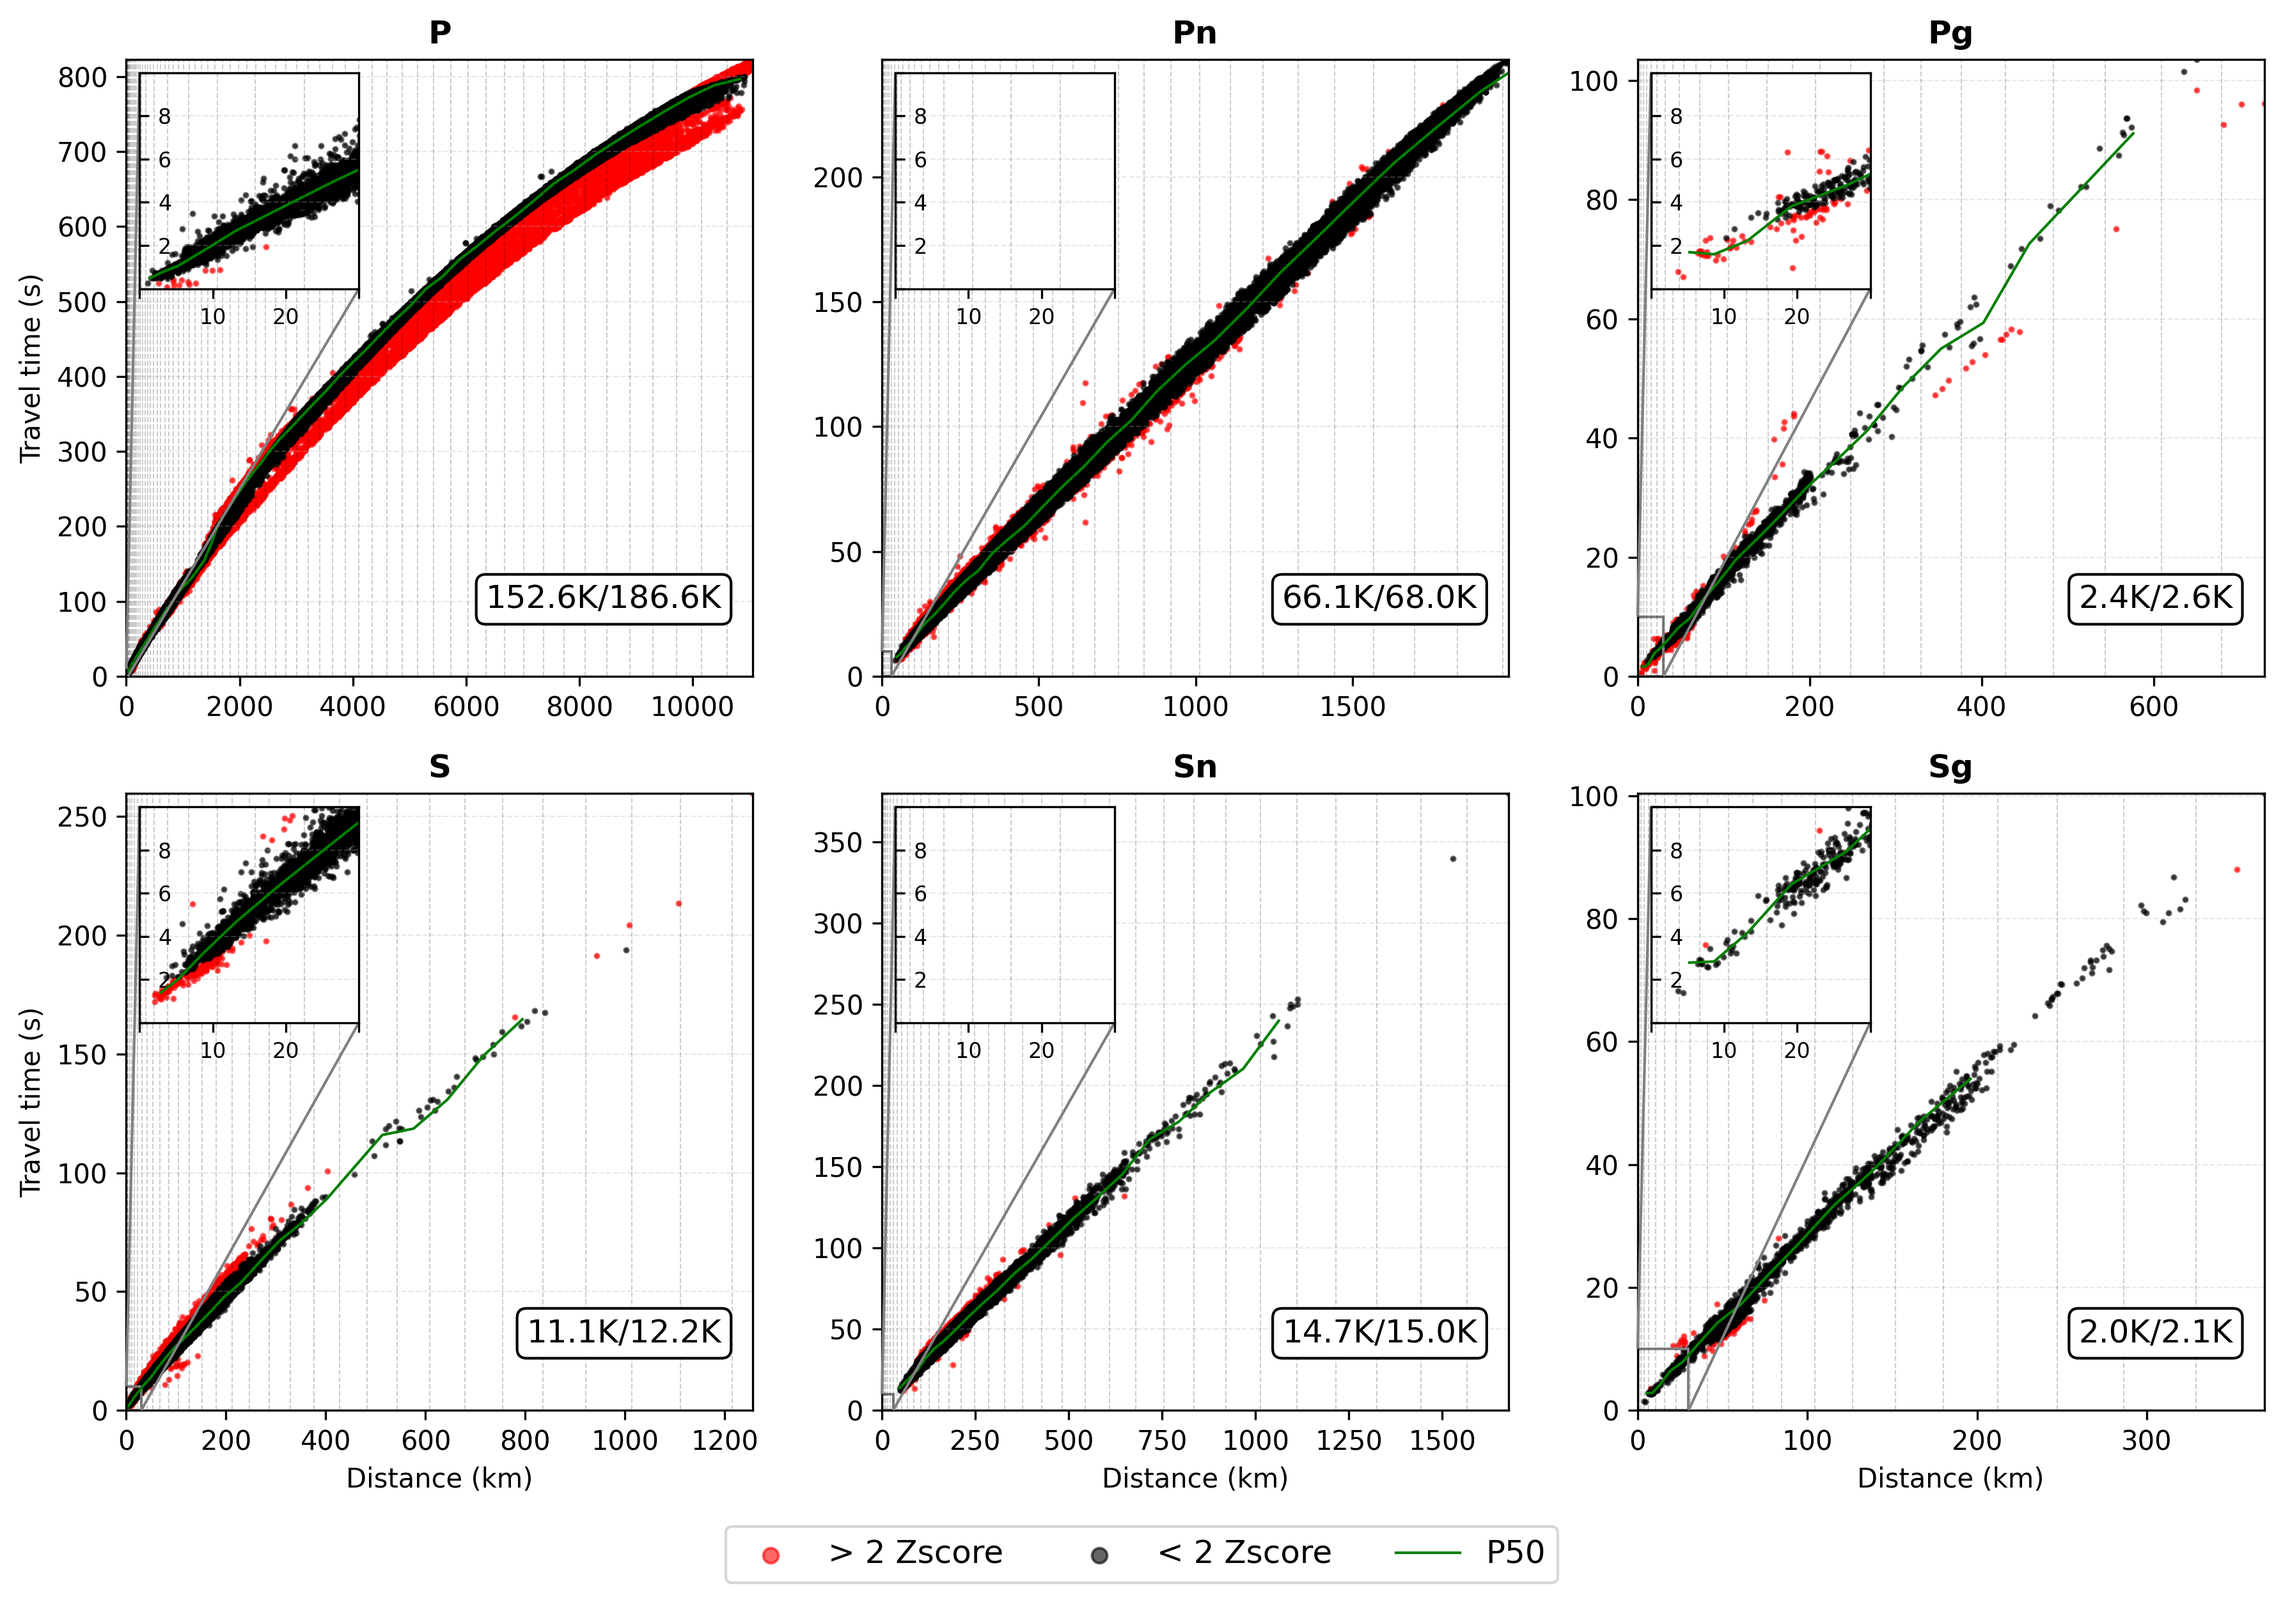
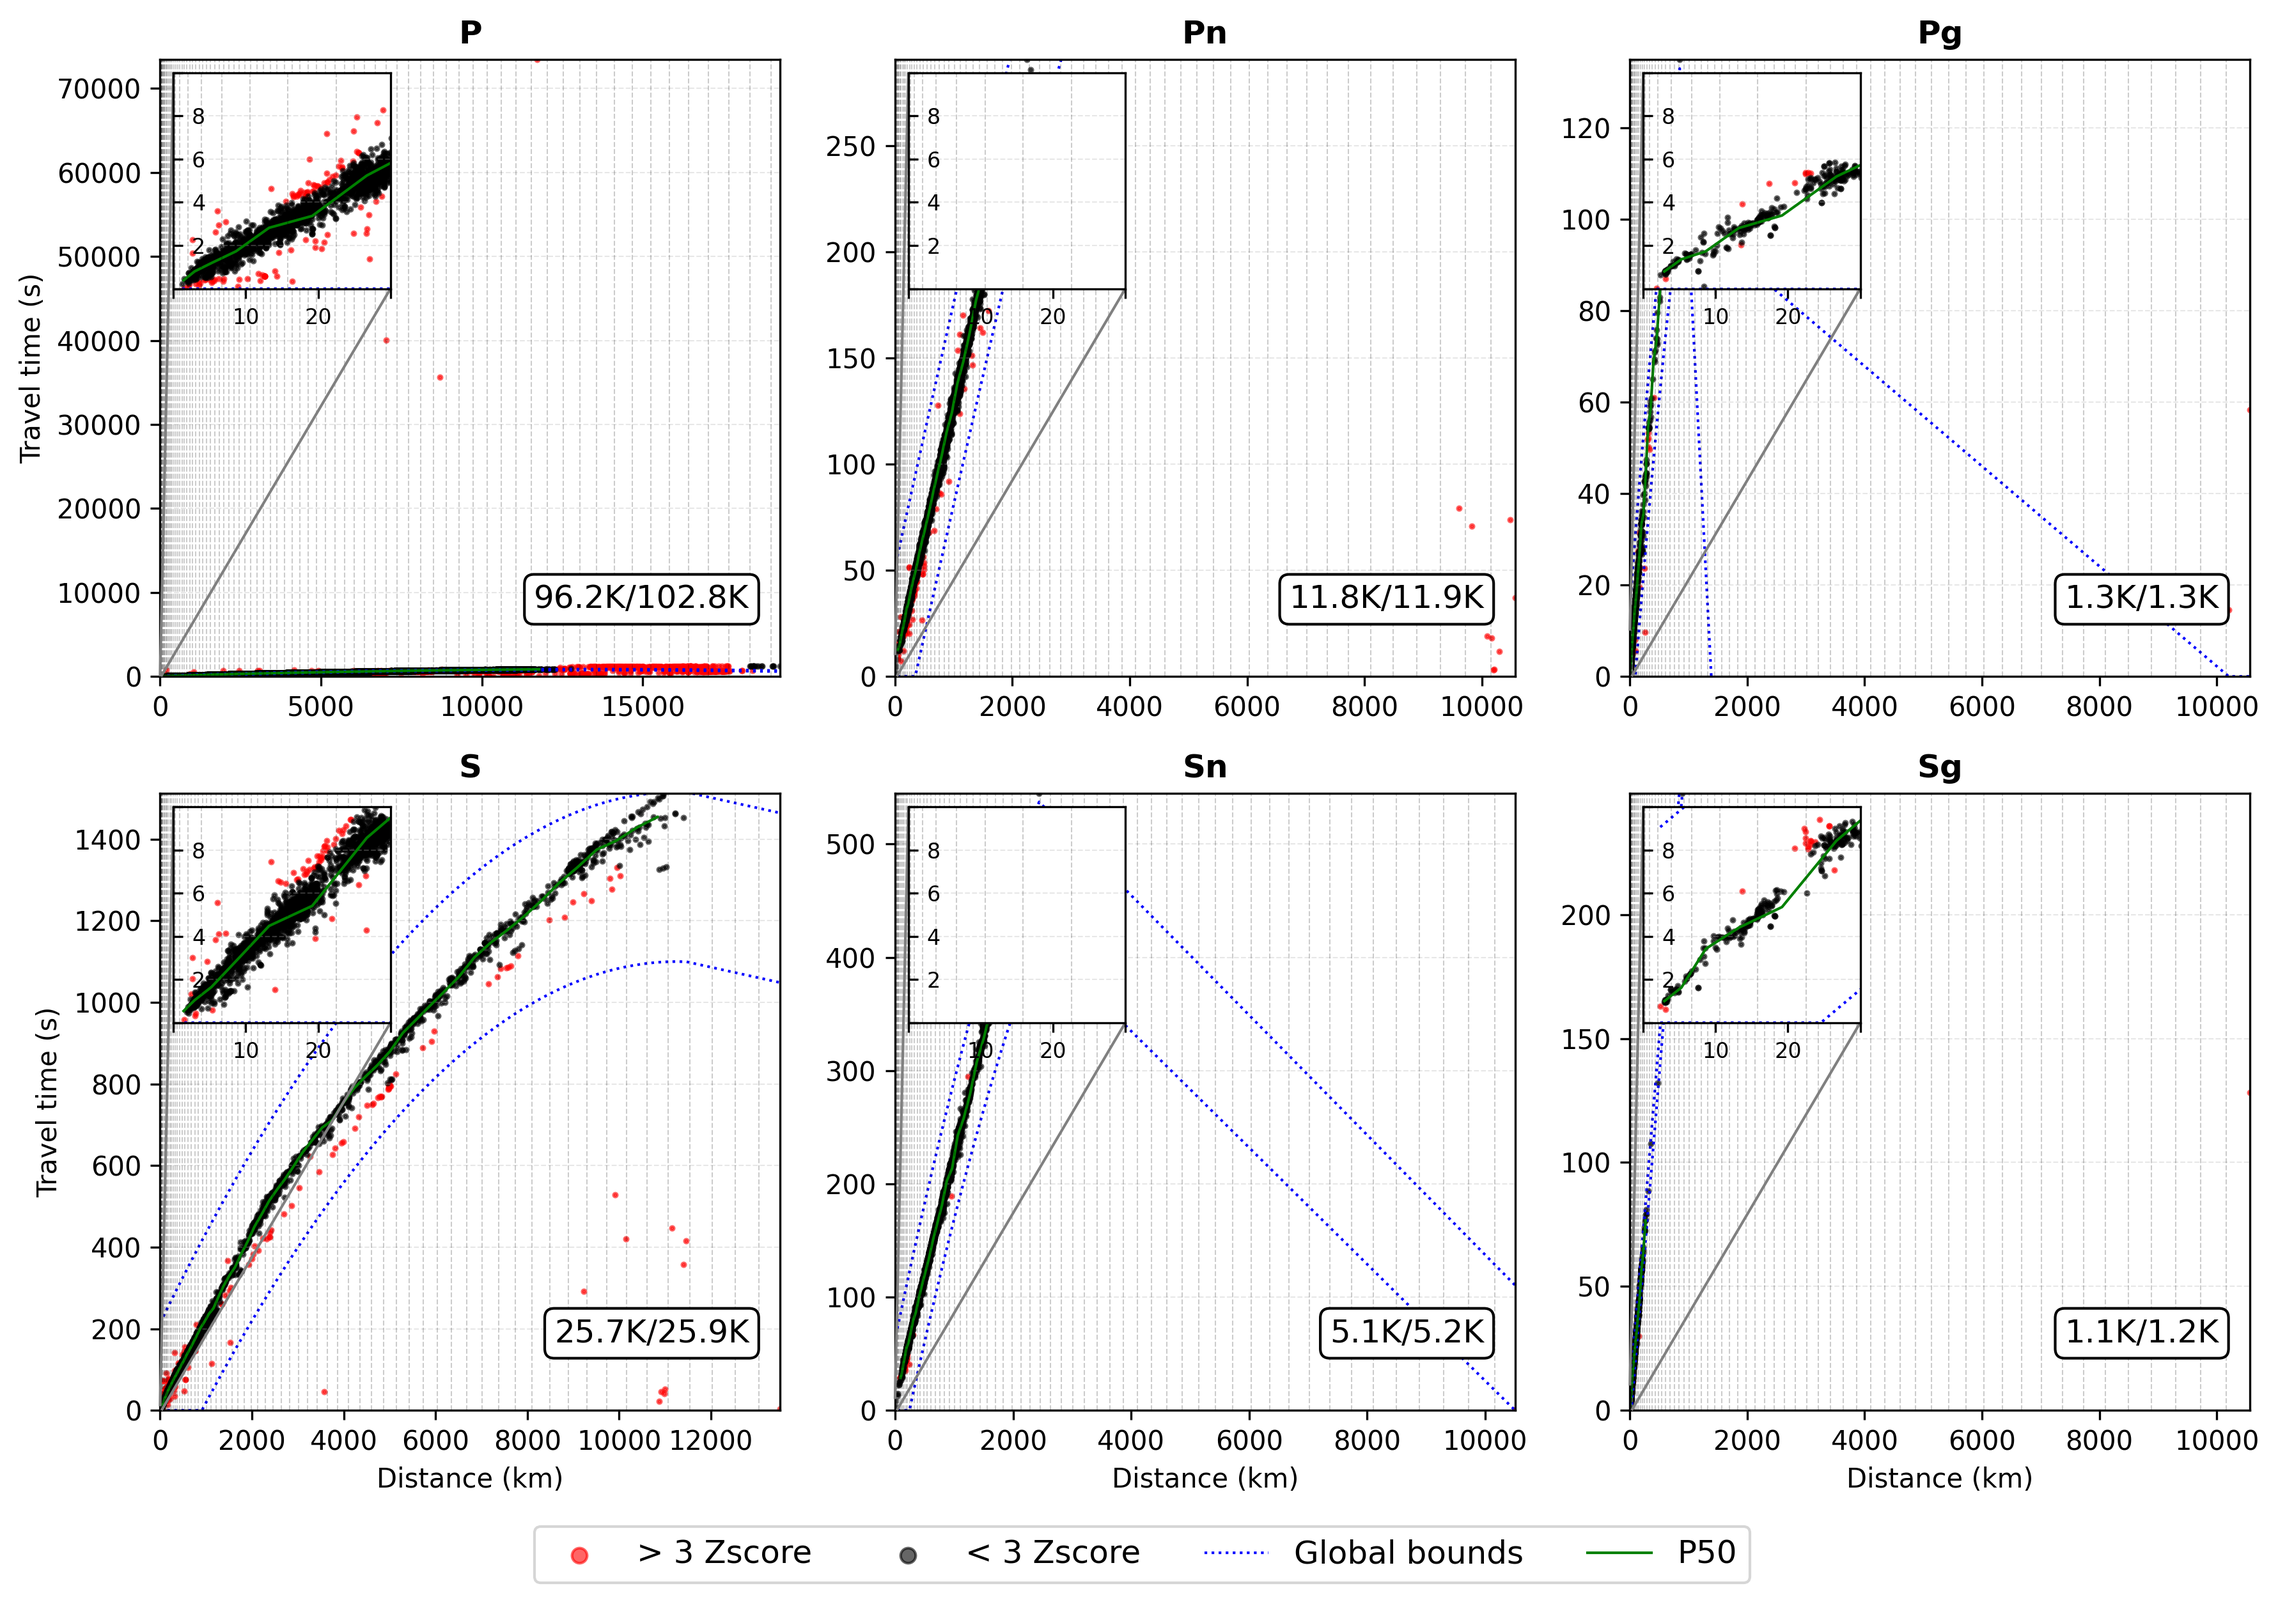
qc for picks

diff --git a/utdquake/qc/travel_time.py b/utdquake/qc/travel_time.py
@@ -84,6 +84,7 @@ class PhaseTravelTimeModel:
         percentile_cols = [col for col in self.model_df.columns if col.startswith("travel_time_p")]
         required_cols = ["travel_time_sigma"] + percentile_cols
         df_valid = self.model_df.dropna(subset=required_cols)
+        df_valid = df_valid.sort_values("distance_center").reset_index(drop=True)
 
         if len(df_valid) == 0:
             raise ValueError("No valid rows available to build interpolators.")
@@ -105,8 +106,15 @@ class PhaseTravelTimeModel:
             # fallback: just constant sigma
             self.std_func = lambda d: np.full_like(d, y_sigma[0] if len(y_sigma) > 0 else 0.0, dtype=float)
         else:
-            self.sigma_coeff = np.polyfit(x, y_sigma, deg_sigma)
-            self.std_func = np.poly1d(self.sigma_coeff)
+            # self.sigma_coeff = np.polyfit(x, y_sigma, deg_sigma)
+            # self.std_func = np.poly1d(self.sigma_coeff)
+            self.std_func = interp1d(
+                    x,
+                    y_sigma,
+                    kind="linear",           
+                    bounds_error=False,
+                    fill_value="extrapolate"
+                )
 
         # -------------------------
         # Percentiles
@@ -119,8 +127,15 @@ class PhaseTravelTimeModel:
                 # fallback: constant curve
                 self.p_funcs[col] = lambda d, val=y[0]: np.full_like(d, val, dtype=float)
             else:
-                coeff = np.polyfit(x, y, deg_col)
-                self.p_funcs[col] = np.poly1d(coeff)
+                # coeff = np.polyfit(x, y, deg_col)
+                # self.p_funcs[col] = np.poly1d(coeff)
+                self.p_funcs[col] = interp1d(
+                                        x,
+                                        y,
+                                        kind="linear",
+                                        bounds_error=False,
+                                        fill_value="extrapolate"
+                                    )
 
     def predict(self, distance: np.ndarray) -> pd.DataFrame:
         """
@@ -618,6 +633,7 @@ class PhaseTravelTime:
         pandas.DataFrame
         """
         df = self.df_full.copy()
+        df = df.sort_values(self.distance_col).reset_index(drop=True)
 
         valid_mask = (
             (~df[self.distance_col].isna()) &
@@ -630,6 +646,7 @@ class PhaseTravelTime:
 
         # Use model prediction (clean + consistent)
         preds = model.predict(x)
+        
 
         mu = preds["travel_time_p50"].values
         sigma = preds["travel_time_sigma"].values
@@ -638,6 +655,9 @@ class PhaseTravelTime:
         sigma = np.where(np.abs(sigma) < 1e-12, np.nan, np.abs(sigma))
 
         z = (y - mu) / sigma
+
+        # print(df[["phase","linear_hyp_distance","travel_time","travel_time_zscore"]].head())
+        # print(x[:5],y[:5], mu[:5], sigma[:5], z[:5])
 
         df.loc[valid_mask, "travel_time_zscore"] = abs(z)
 

diff --git a/utdquake/qc/config.py b/utdquake/qc/config.py
@@ -73,7 +73,7 @@ GLOBAL_TRENDS_DEFAULTS_DEG2 = {
             ],
             "sigma_median": 3.081852707836243,
             "sigma_max": 18.122289219478738,
-            "k": 10,
+            "k": 20,
             "x_min": 0,
             "x_max": 11062.643551617337
         },
@@ -86,7 +86,7 @@ GLOBAL_TRENDS_DEFAULTS_DEG2 = {
             ],
             "sigma_median": 2.3717707360038713,
             "sigma_max": 3.1788006095243153,
-            "k": 10,
+            "k": 20,
             "x_min": 0,
             "x_max": 1996.7077724459723
         },
@@ -99,7 +99,7 @@ GLOBAL_TRENDS_DEFAULTS_DEG2 = {
             ],
             "sigma_median": 0.7664360582262733,
             "sigma_max": 5.0462686049646654,
-            "k": 10,
+            "k": 20,
             "x_min": 0,
             "x_max": 728.2027580903004
         },
@@ -112,7 +112,7 @@ GLOBAL_TRENDS_DEFAULTS_DEG2 = {
             ],
             "sigma_median": 10.393477818397521,
             "sigma_max": 256.35044260025336,
-            "k": 10,
+            "k": 20,
             "x_min": 0,
             "x_max": 13506.250225497472
         },
@@ -125,7 +125,7 @@ GLOBAL_TRENDS_DEFAULTS_DEG2 = {
             ],
             "sigma_median": 3.053158871586068,
             "sigma_max": 6.134819445258061,
-            "k": 10,
+            "k": 20,
             "x_min": 0,
             "x_max": 10504.929615655545
         },
@@ -139,7 +139,7 @@ GLOBAL_TRENDS_DEFAULTS_DEG2 = {
             "phase": "Sg",
             "sigma_median": 0.3828498082403183,
             "sigma_max": 0.965278331528081,
-            "k": 3,
+            "k": 20,
             "x_min": 0,
             "x_max": 885.351256561625,
         }

diff --git a/scripts/qc/picks/qc_travel_time.py b/scripts/qc/picks/qc_travel_time.py
@@ -10,13 +10,14 @@ import concurrent.futures as cf
 
 fit = True
 plot = True
-max_workers = min(8, len(networks))  # adjust as needed
 base_input = "/groups/igonin/ecastillo/UTDQuake/picks"
+# results_folder = f"/groups/igonin/ecastillo/UTDQuake"
 results_folder = f"/groups/igonin/ecastillo/UTDQuake/manifests/qc"
 
 networks = os.listdir(base_input)
 # networks = ["TAP","tx","uw","ok","nn","RSNC","nc","us"]
-# networks = ["uw"]
+# networks = ["network=TAP.parquet"]
+max_workers = min(8, len(networks))  # adjust as needed
 
 print("Networks to process:", networks)
 
@@ -26,7 +27,7 @@ def process_network(network: str):
 
     data_input = os.path.join(base_input, network)
     data_output = os.path.join(results_folder, "picks", network)
-    model_path = os.path.join(results_folder, "qc_pick_models", network)
+    model_path = os.path.join(results_folder, "qc","pick_models", network)
 
     # Ensure directories exist
     os.makedirs(os.path.dirname(data_output), exist_ok=True)
@@ -47,10 +48,15 @@ def process_network(network: str):
             df_qc_z = multi_qc.attach_zscore()
             sanitized_df = sanitize_dataframe(df_qc_z, order_cols="picks")
 
+
+            sanitized_df.sort_values("linear_hyp_distance", inplace=True)
+            # print(sanitized_df[["phase","linear_hyp_distance",
+            # "travel_time","travel_time_zscore"]].head())
+
             sanitized_df.to_parquet(data_output, index=False)
             multi_qc.save_models_combined(model_path)
 
-        return f"✅ Done: {network}"
+            return f"✅ Done: {network}"
 
     except Exception as e:
         return f"❌ Error in {network}: {e}"

diff --git a/scripts/fig/test_new_figs.py b/scripts/fig/test_new_figs.py
@@ -6,15 +6,21 @@ from utdquake.utils.plot import plot_travel_time_qc
 
 import pandas as pd
 from utdquake.qc.travel_time import TravelTimeModel
-network = "us"
+network = "AUST"
+# path = "/groups/igonin/ecastillo/UTDQuake/manifests/test/picks/network=TAP.parquet"
 path = f"/groups/igonin/ecastillo/UTDQuake/picks/network={network}.parquet"
 df = pd.read_parquet(path)
+df.sort_values("linear_hyp_distance", inplace=True)
+print(df[["phase","linear_hyp_distance","travel_time","travel_time_zscore"]].head())
     
+# model_path = f"/groups/igonin/ecastillo/UTDQuake/manifests/test/qc/pick_models/network=TAP.parquet"
 model_path = f"/groups/igonin/ecastillo/UTDQuake/qc/pick_models/network={network}.parquet"
 load = TravelTimeModel.load(model_path)
 models = load.models
 fig_path = f"/groups/igonin/ecastillo/utdquake/scripts/fig/test_new_figs.png" 
-plot_travel_time_qc(df, models=models, zscore_threshold=2,
-            add_inset=True, savepath=fig_path)
+plot_travel_time_qc(df, models=models, zscore_threshold=3,
+            show_global_model=True,
+            add_inset=True, savepath=fig_path,
+            )
 # plot_travel_time_qc(df, add_inset=True, savepath=fig_path)
 

diff --git a/scripts/fig/test_figs.py b/scripts/fig/test_figs.py
@@ -120,7 +120,7 @@ for net_name in network_names:
         # network.plot_uncertainty_boxplots(savepath=str(figures_dict["uncertainty_boxplots"]).format(network=net_name))
         network.plot_travel_time_qc(savepath=str(figures_dict["travel_time_qc"]).format(network=net_name),
                                     show_models=["travel_time_p50"],show_global_model=False,
-                                    zscore_threshold=5
+                                    zscore_threshold=3
                                     )
 
         # # # ---- CREATE GIF FOR THIS NETWORK ----

diff --git a/test/read_parquet.py b/test/read_parquet.py
@@ -1,0 +1,5 @@
+import pandas as pd
+
+path = "/groups/igonin/ecastillo/UTDQuake/qc/pick_models/network=TAP.parquet"
+df = pd.read_parquet(path)
+print(df.iloc[:10])
